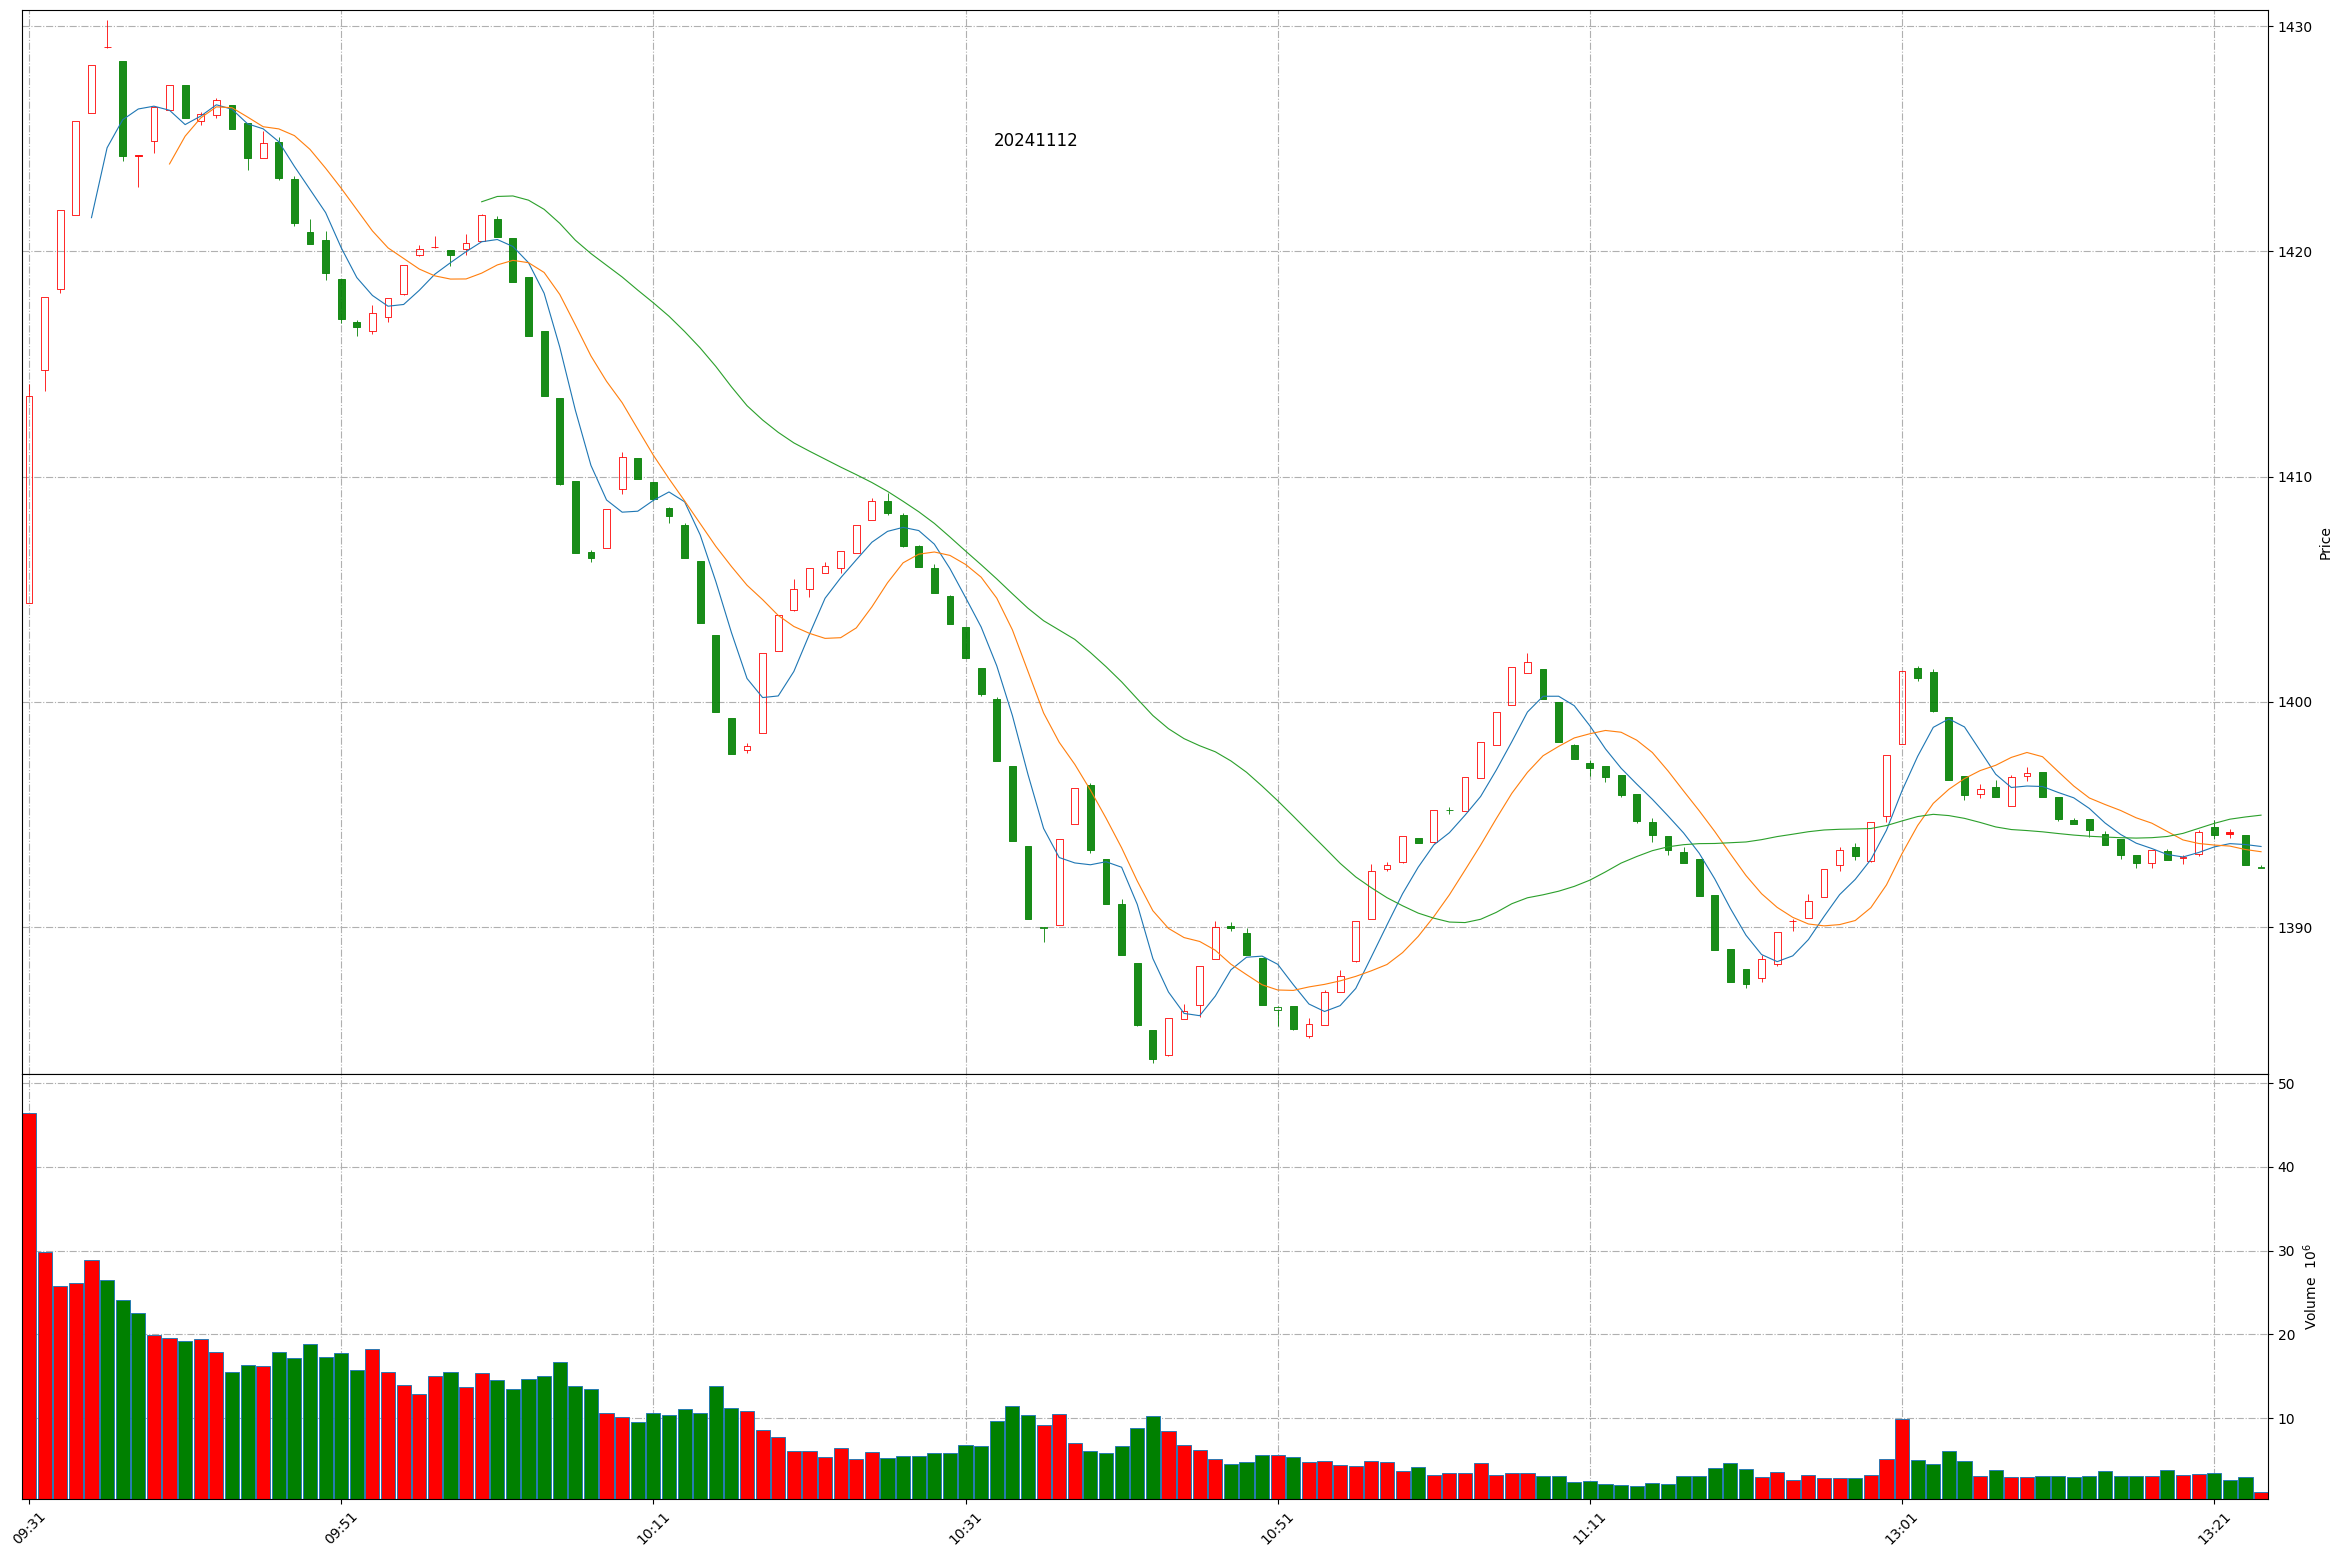
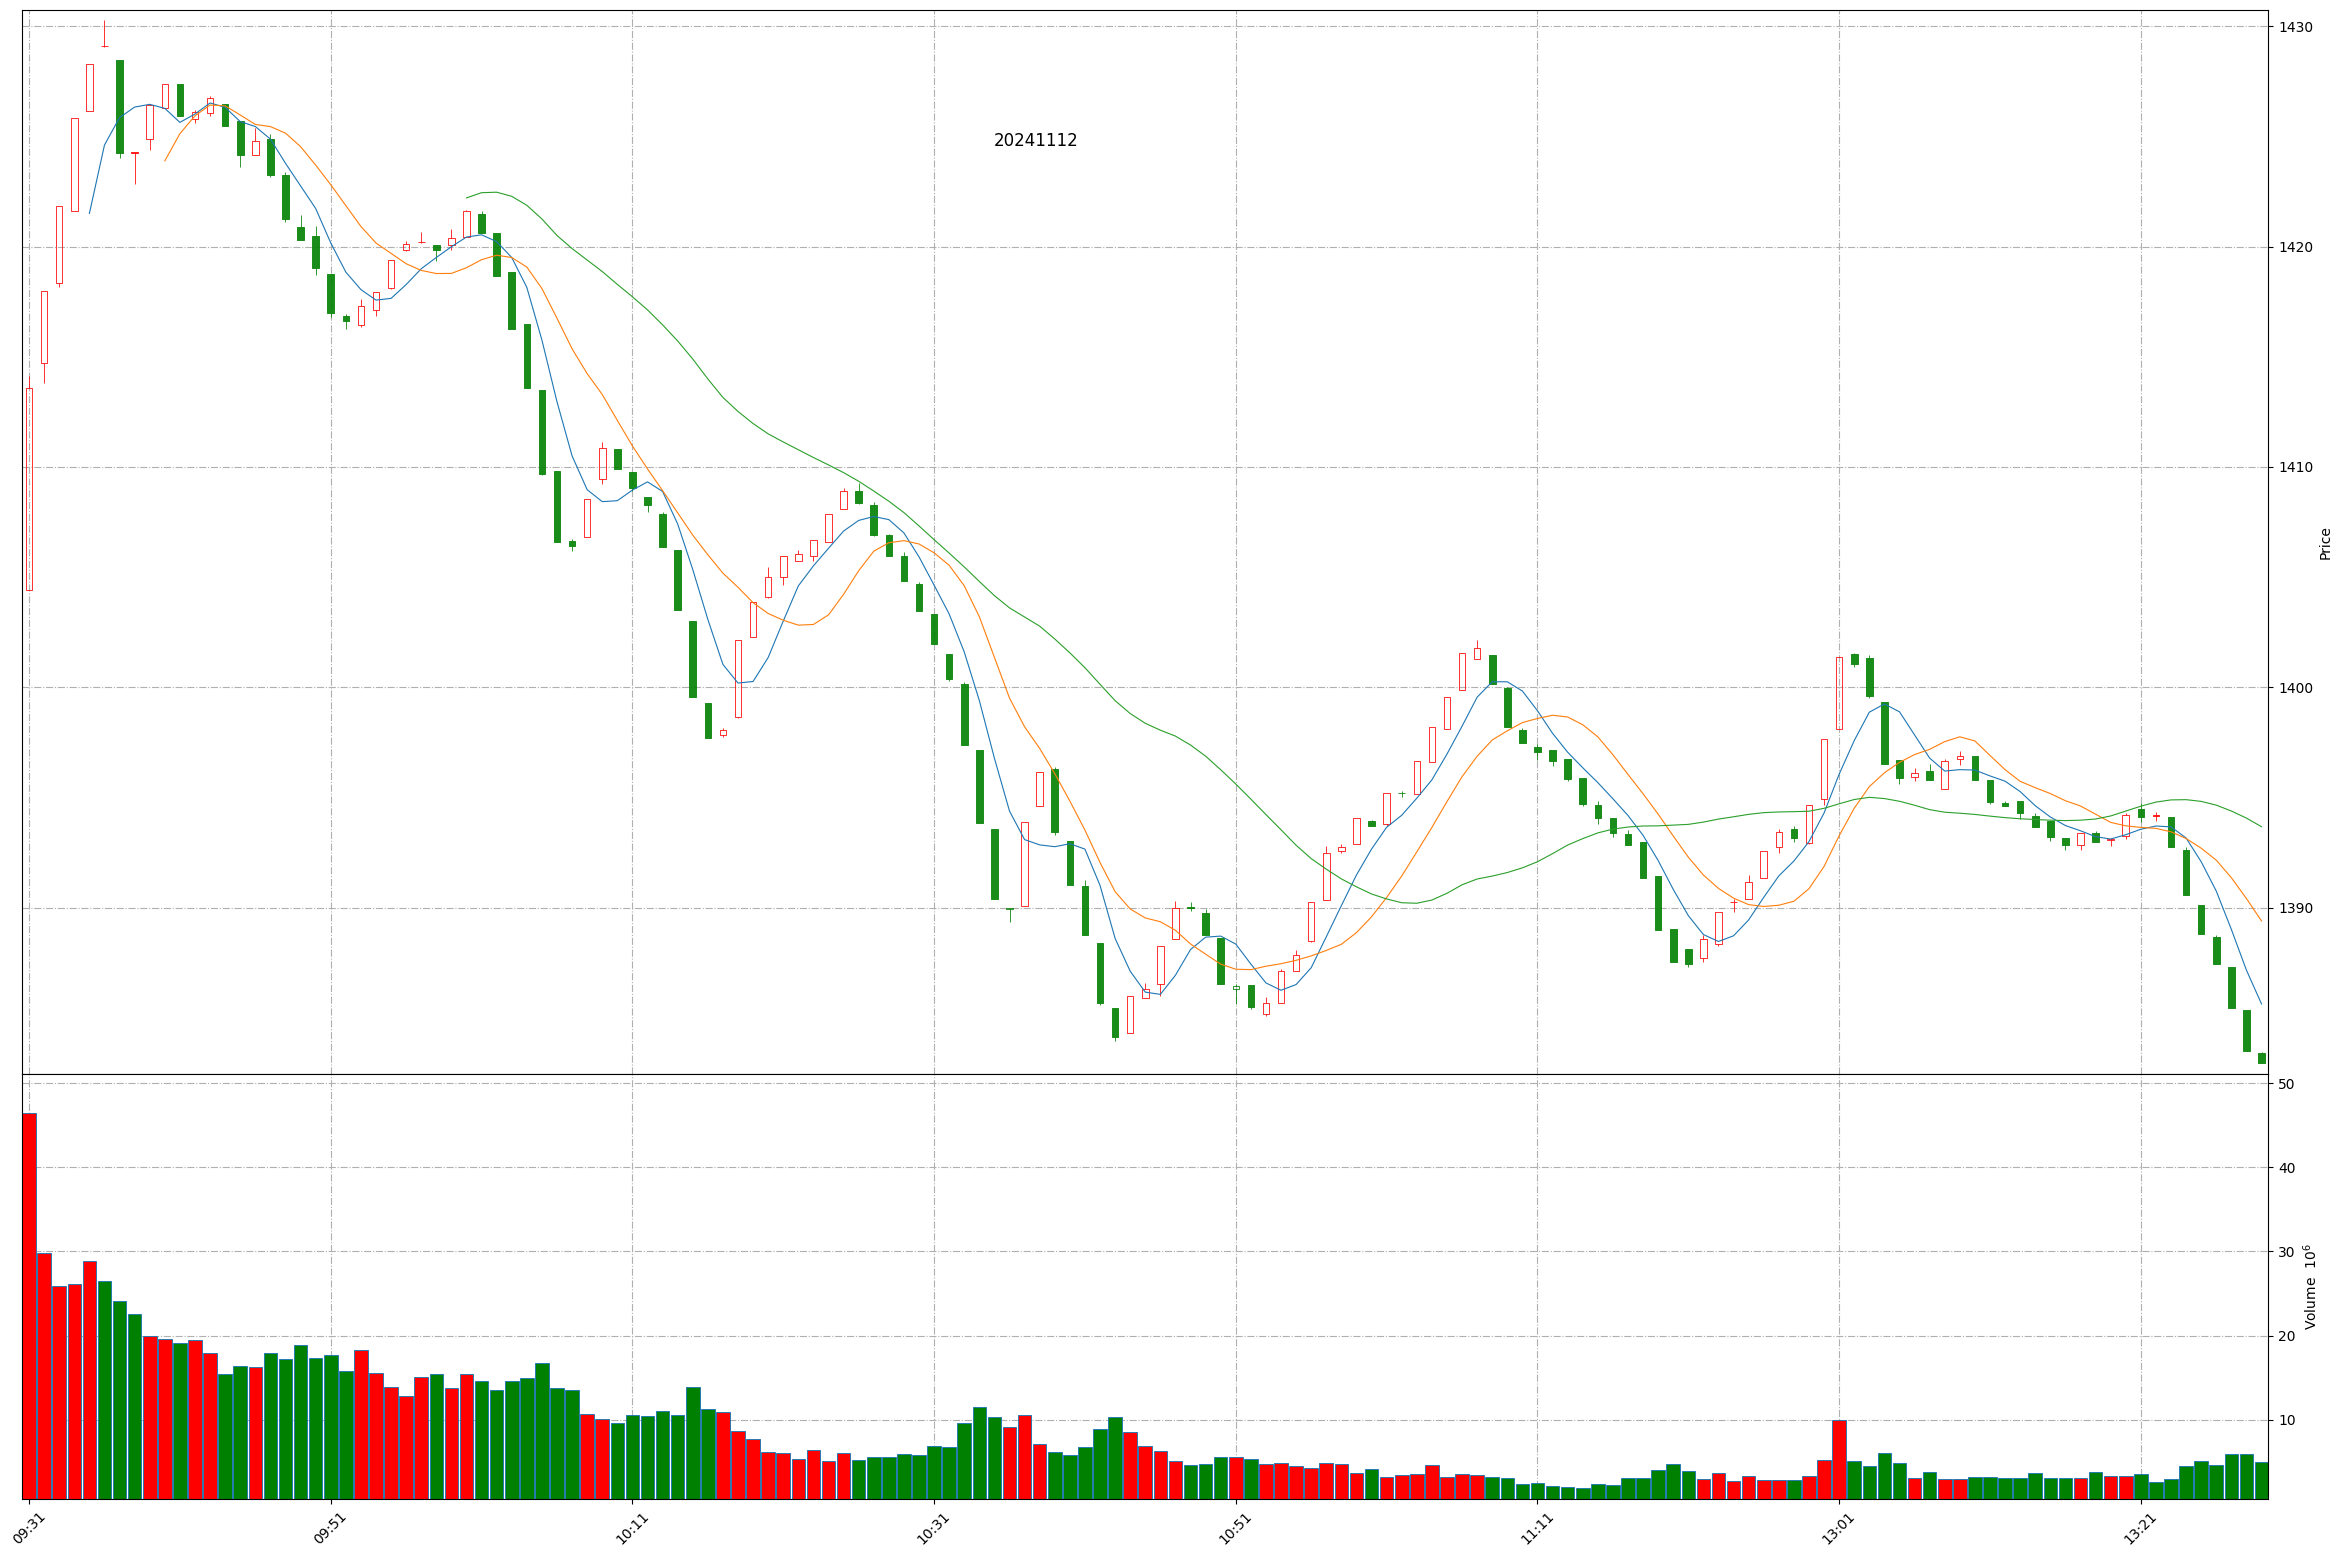
Github action update at 2024-11-12 13:29:03.

diff --git a/README.md b/README.md
@@ -1,11 +1,11 @@
 
 # Daily-A-share-market-quotes 每日 A 股指数（5min 更新）- 20241112
 
-### 上证指数 20241112 13:23
+### 上证指数 20241112 13:29
 ![](./fig/2024/11/20241112-sh000001.png)
 
-### 深证成指 20241112 13:23
+### 深证成指 20241112 13:29
 ![](./fig/2024/11/20241112-sz399001.png)
 
-### 北证50 20241112 13:23
+### 北证50 20241112 13:29
 ![](./fig/2024/11/20241112-bj899050.png)
